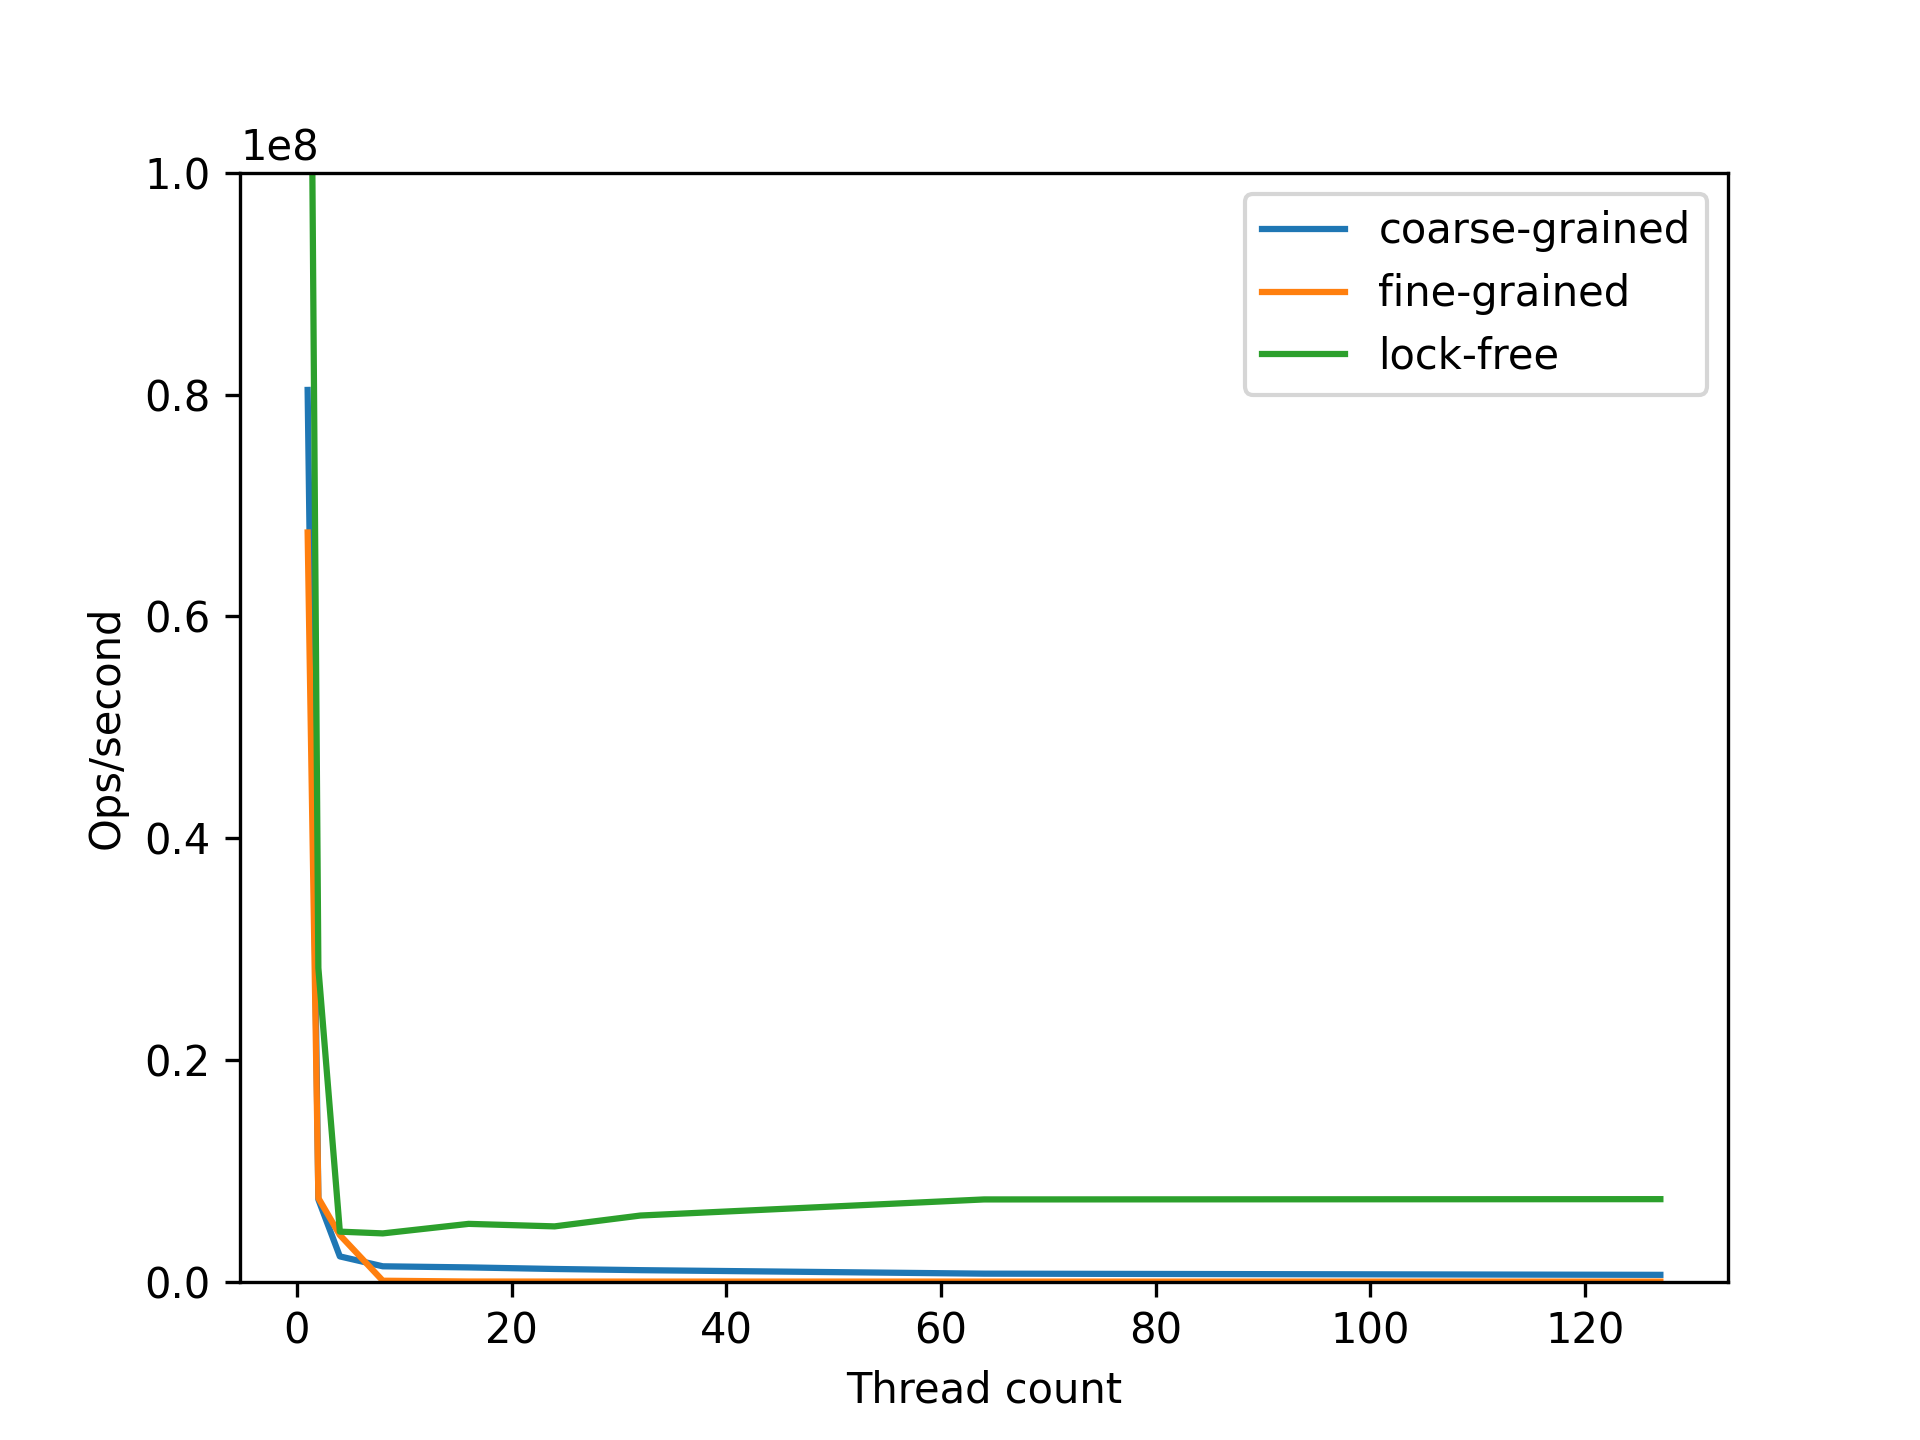
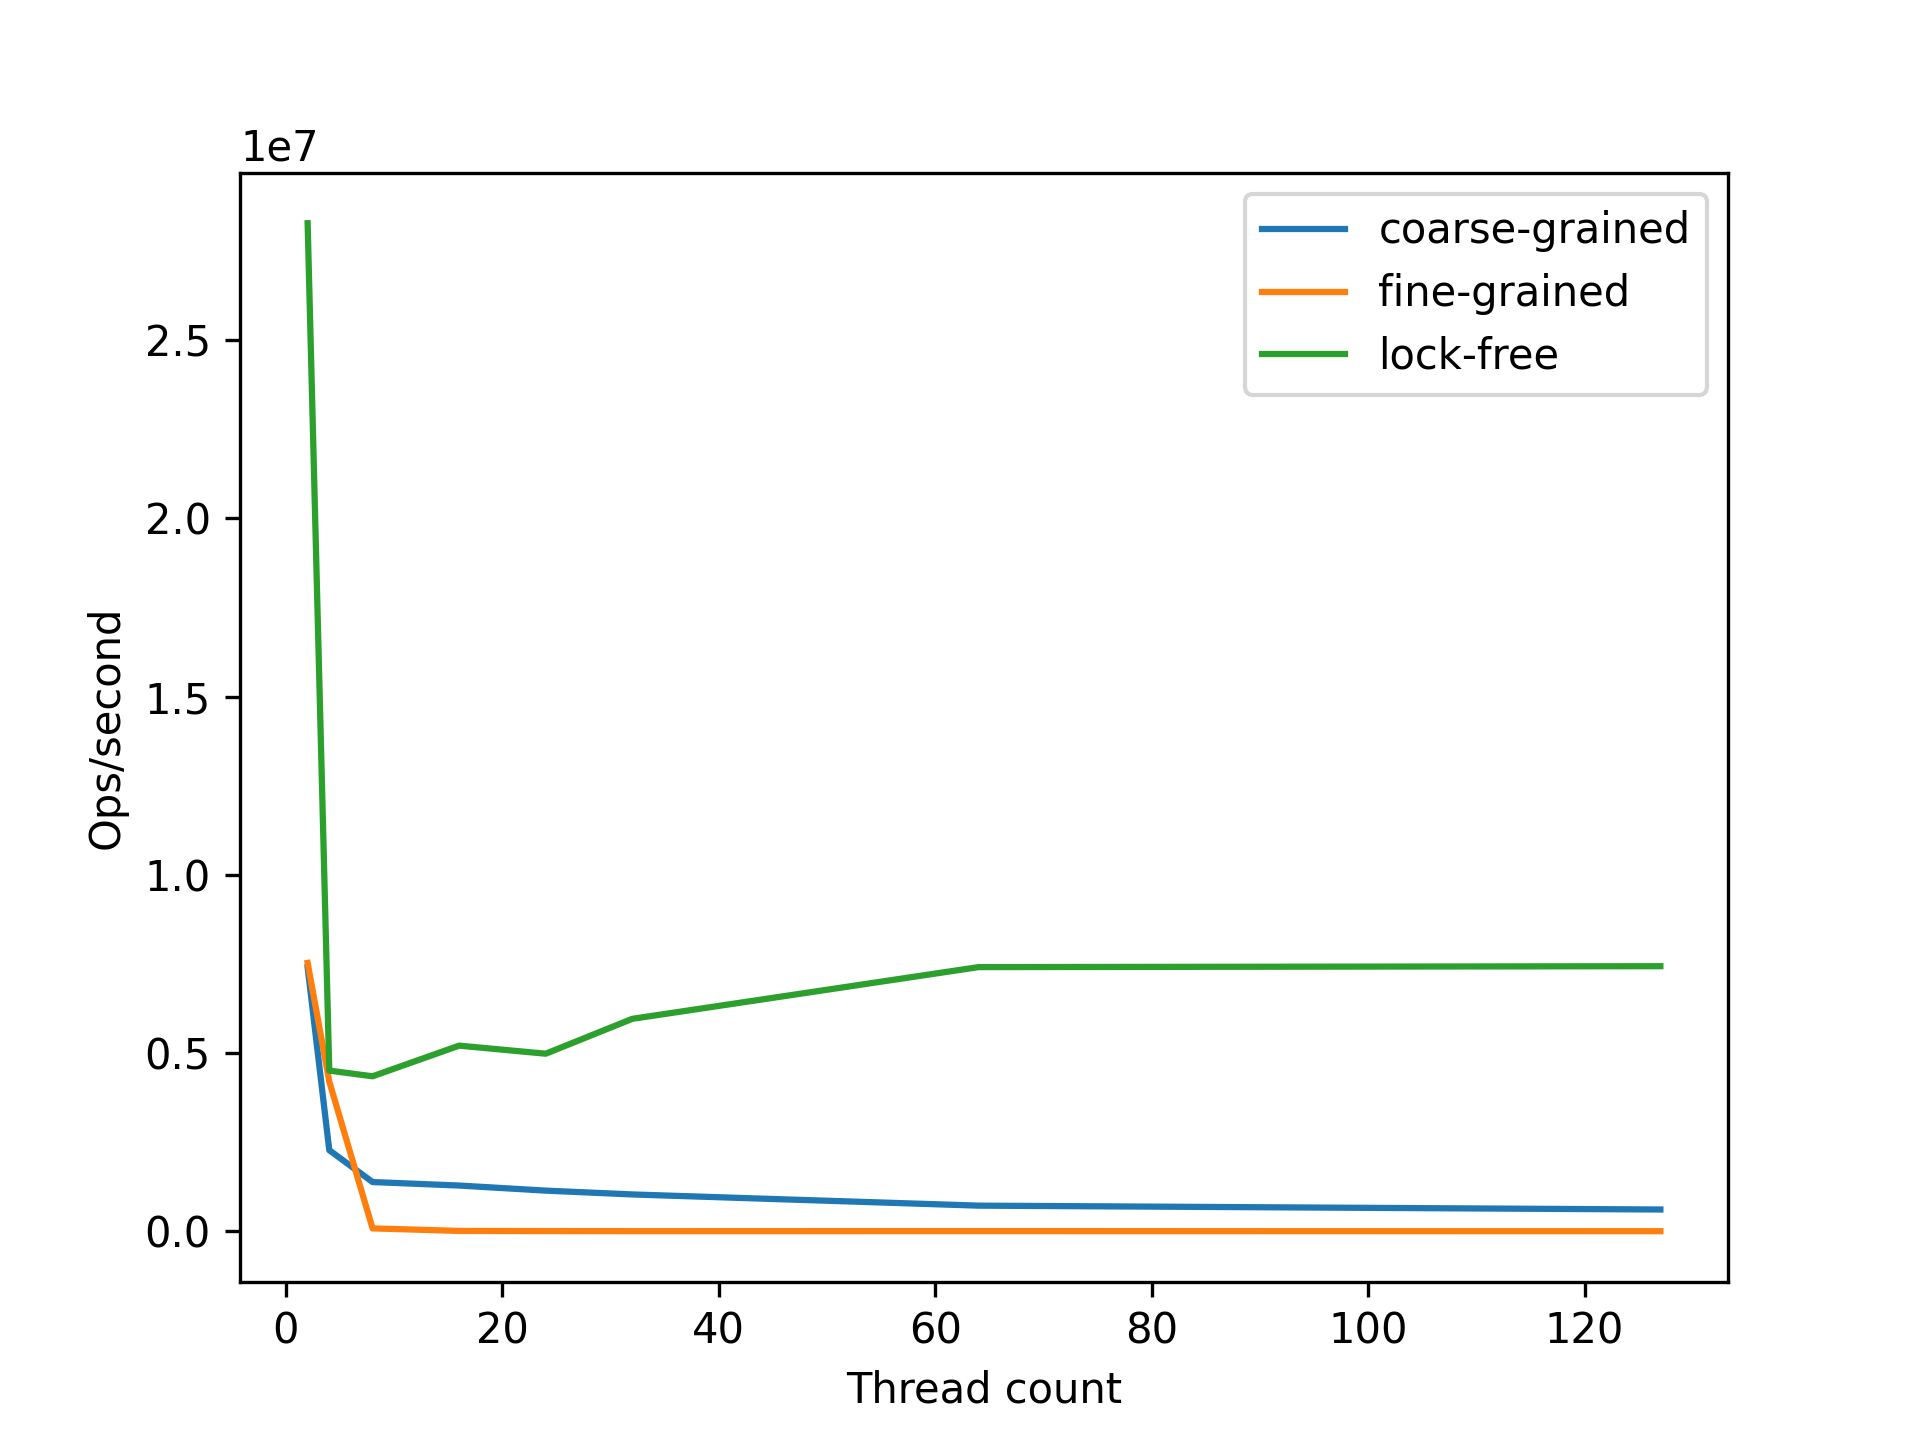
fix outlier for work_flow

diff --git a/src/gen_graph.py b/src/gen_graph.py
@@ -32,11 +32,11 @@ for filename in files:
 print(ys)
 plt.autoscale(True)
     
-plt.plot(x, ys[0], label="coarse-grained")
-plt.plot(x, ys[1], label ="fine-grained")
-plt.plot(x, ys[2], label = "lock-free")
+plt.plot(x[1:], ys[0][1:], label="coarse-grained")
+plt.plot(x[1:], ys[1][1:], label ="fine-grained")
+plt.plot(x[1:], ys[2][1:], label = "lock-free")
 plt.legend()
-plt.ylim((0, 1e8))
+# plt.ylim((0, 1e8))
 plt.xlabel("Thread count")
 plt.ylabel("Ops/second")
 plt.savefig(dir+"result.png", dpi=300)
